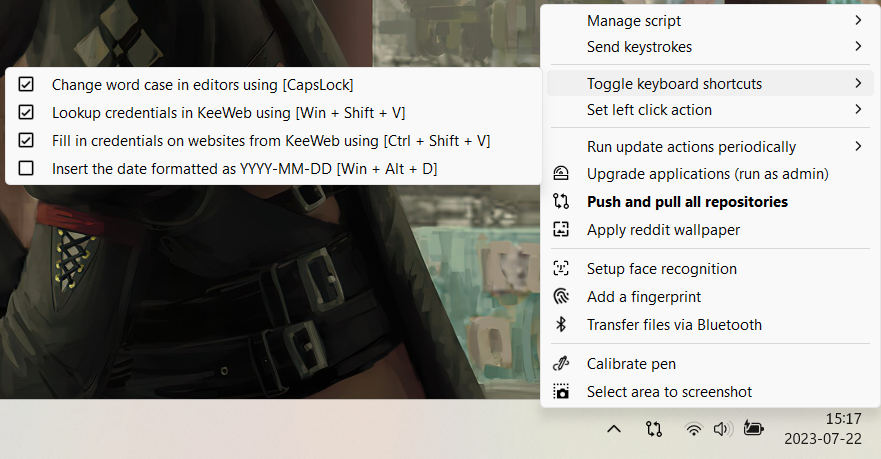
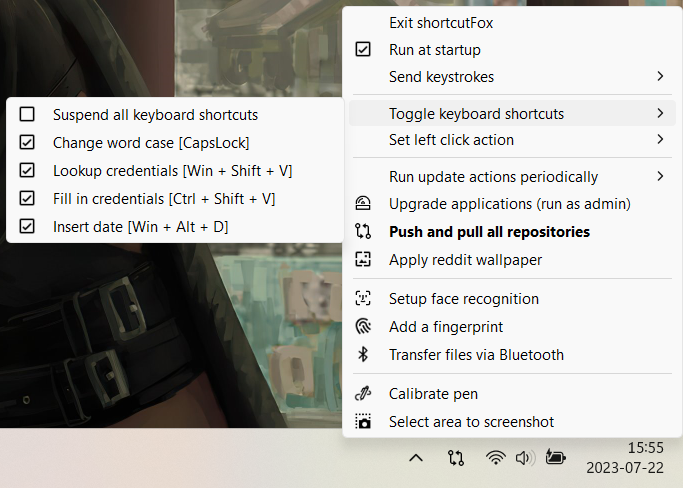
Rephrase and restructure actions

diff --git a/README.md b/README.md
@@ -3,8 +3,8 @@
 [![Download script](https://img.shields.io/github/downloads/yetenol/shortcutFox/total.svg)](https://github.com/yetenol/shortcutFox/releases/latest/download/shortcutFox.exe)
 [![List releases](https://img.shields.io/github/release/yetenol/shortcutFox.svg)](https://github.com/yetenol/shortcutFox/releases)
 
-shortcutFox bundles optimizations and automations into a simple menu in the system tray.
-ShortcutFox lists shortcuts, which can be easily customized with a [human-readable file](source/config/trayLayout.ahk), in the context menu of a system tray icon. Additionally, a few personalization tweaks are applied.
+shortcutFox is a menu in the system tray that contains frequently used actions , update scripts and settings for keyboard shortcuts. 
+With a [human readable configuration file](source/config/trayLayout.ahk) the menu can be edited or additional actions can be added.
 
 # Features
 
@@ -12,11 +12,13 @@ ShortcutFox lists shortcuts, which can be easily customized with a [human-readab
 
 ## Keyboard shortcuts
 
-- Change **word case** in [editors](#whitelisted-apps-to-toggle-word-case) using `[CapsLock]`
-- Pop up **KeeWeb**
-  - Lookup credentials using `[Win + Shift + V]`
-  - Fill in credentials on websites `[Ctrl + Shift + V]`
-- Insert the date formatted as YYYY-MM-DD using `[Win + Alt + D]`
+Change **word case** in [editors](#whitelisted-apps-to-toggle-word-case) using `[CapsLock]`
+
+Pop up **KeeWeb**
+- Lookup credentials using `[Win + Shift + V]`
+- Fill in credentials on websites `[Ctrl + Shift + V]`
+
+Insert the date formatted as YYYY-MM-DD using `[Win + Alt + D]`
 
 ## Tray shortcuts
 
